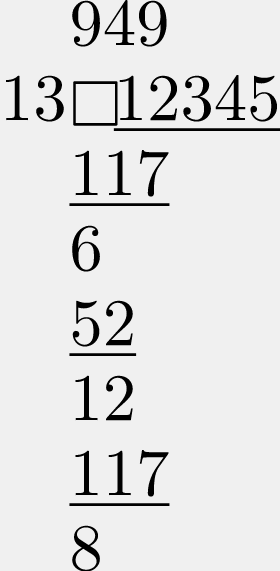
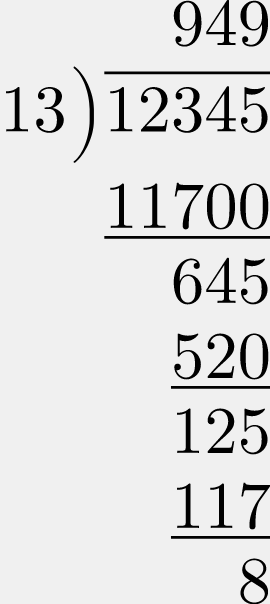
fix: correct long division rendering

diff --git a/CSharpMath.Core.Tests/Atom/LongDivisionTests.cs b/CSharpMath.Core.Tests/Atom/LongDivisionTests.cs
@@ -10,6 +10,8 @@ namespace CSharpMath.Core.AtomTests {
     static string CellText(MathList cell) => cell.Count == 0 ? "" : cell[0] switch {
       Number number => number.Nucleus,
       Underline underline => CellText(underline.InnerList),
+      Overline overline => CellText(overline.InnerList),
+      Inner inner => CellText(inner.InnerList),
       _ => cell.DebugString
     };
     static LongDivision Parse(string source) {
@@ -101,10 +103,20 @@ namespace CSharpMath.Core.AtomTests {
       var layout = (Table)typeof(LongDivision).GetMethod("CreateLayout", BindingFlags.Instance | BindingFlags.NonPublic)!.Invoke(atom, null)!;
       var dividend = layout.Cells[1][1];
       var inner = Assert.IsType<Inner>(dividend[0]);
-      Assert.Equal("⟌", inner.LeftBoundary.Nucleus);
-      Assert.IsType<Underline>(inner.InnerList[0]);
+      Assert.Equal(")", inner.LeftBoundary.Nucleus);
+      Assert.Equal(Boundary.Empty, inner.RightBoundary);
+      Assert.IsType<Overline>(inner.InnerList[0]);
       Assert.Equal("949", CellText(layout.Cells[0][1]));
+      Assert.Equal(ColumnAlignment.Right, layout.GetAlignment(1));
       Assert.Equal(1, layout.Cells.Count(row => row.Any(cell => CellText(cell) == atom.Remainder)));
+    }
+
+    [Fact]
+    public void LayoutPreservesProductPlaceValuesAndRunningTotals() {
+      var atom = new LongDivision("12345", "13");
+      var layout = (Table)typeof(LongDivision).GetMethod("CreateLayout", BindingFlags.Instance | BindingFlags.NonPublic)!.Invoke(atom, null)!;
+      Assert.Equal(new[] { "949", "12345", "11700", "645", "520", "125", "117", "8" },
+        layout.Cells.Select(row => CellText(row[1])));
     }
 
     [Fact]
@@ -113,7 +125,21 @@ namespace CSharpMath.Core.AtomTests {
       Assert.Contains(atom.Steps, step => step.QuotientDigit == 0);
       var layout = (Table)typeof(LongDivision).GetMethod("CreateLayout", BindingFlags.Instance | BindingFlags.NonPublic)!.Invoke(atom, null)!;
       Assert.Equal("201", CellText(layout.Cells[0][1]));
+      Assert.Equal(new[] { "201", "1005", "1000", "5", "5", "0" },
+        layout.Cells.Select(row => CellText(row[1])));
       Assert.Equal(1, layout.Cells.Skip(2).Count(row => row.Any(cell => CellText(cell) == "0")));
+    }
+
+    [Theory]
+    [InlineData("81", "3", new[] { "27", "81", "60", "21", "21", "0" })]
+    [InlineData("3", "5", new[] { "0", "3", "3" })]
+    [InlineData("0", "7", new[] { "0", "0", "0" })]
+    [InlineData("86491", "94", new[] { "920", "86491", "84600", "1891", "1880", "11" })]
+    public void LayoutShowsExactlyOneFinalRemainder(string numerator, string denominator, string[] expected) {
+      var atom = new LongDivision(numerator, denominator);
+      var layout = (Table)typeof(LongDivision).GetMethod("CreateLayout", BindingFlags.Instance | BindingFlags.NonPublic)!.Invoke(atom, null)!;
+      Assert.Equal(expected, layout.Cells.Select(row => CellText(row[1])));
+      Assert.Equal(atom.Remainder, CellText(layout.Cells.Last()[1]));
     }
   }
 }

diff --git a/CSharpMath/Atom/Atoms/LongDivision.cs b/CSharpMath/Atom/Atoms/LongDivision.cs
@@ -44,10 +44,31 @@ namespace CSharpMath.Atom.Atoms {
       return result.AsReadOnly();
     }
     internal Table CreateLayout() {
-      var table = new Table { InterColumnSpacing = 1, InterRowAdditionalSpacing = 1 }; table.SetCell(Digits(QuotientText), 0, 1); table.SetCell(Digits(Denominator), 1, 0); table.SetCell(new MathList(new Inner(new Boundary("⟌"), new MathList(new Underline(Digits(Numerator))), Boundary.Empty)), 1, 1); table.SetAlignment(ColumnAlignment.Right, 0); table.SetAlignment(ColumnAlignment.Left, 1);
-      var d = BigInteger.Parse(Denominator, CultureInfo.InvariantCulture); var running = BigInteger.Zero; var row = 2;
-      for (int i = 0; i < Numerator.Length; i++) { running = running * 10 + (Numerator[i] - '0'); if (running < d) continue; var product = (running / d) * d; table.SetCell(new MathList(new Underline(Digits(product.ToString(CultureInfo.InvariantCulture)))), row++, 1); running -= product; if (i < Numerator.Length - 1) table.SetCell(Digits(running.ToString(CultureInfo.InvariantCulture)), row++, 1); }
-      if (row == 2 || Remainder != "0") table.SetCell(Digits(Remainder), row, 1); return table;
+      var table = new Table { InterColumnSpacing = 1, InterRowAdditionalSpacing = 1 };
+      table.SetCell(Digits(QuotientText), 0, 1);
+      table.SetCell(Digits(Denominator), 1, 0);
+      table.SetCell(new MathList(new Inner(
+        new Boundary(")"),
+        new MathList(new Overline(Digits(Numerator))),
+        Boundary.Empty)), 1, 1);
+      table.SetAlignment(ColumnAlignment.Right, 0);
+      table.SetAlignment(ColumnAlignment.Right, 1);
+
+      var row = 2;
+      foreach (var step in Steps.Where(step => step.QuotientDigit > 0)) {
+        var trailingZeroes = new string('0', Numerator.Length - step.DecimalColumn - 1);
+        var product = step.Product + trailingZeroes;
+        table.SetCell(new MathList(new Underline(Digits(product))), row++, 1);
+
+        // Bring down every remaining dividend digit so place value is retained.
+        var runningText = step.Remainder + Numerator.Substring(step.DecimalColumn + 1);
+        var running = BigInteger.Parse(runningText, CultureInfo.InvariantCulture)
+          .ToString(CultureInfo.InvariantCulture);
+        table.SetCell(Digits(running), row++, 1);
+      }
+      if (!Steps.Any(step => step.QuotientDigit > 0))
+        table.SetCell(Digits(Remainder), row, 1);
+      return table;
     }
     public IEnumerable<MathList> InnerLists => CreateLayout().Cells.SelectMany(r => r);
     public override bool ScriptsAllowed => false;

diff --git a/CSharpMath.Rendering.Tests/TestRenderingMathData.cs b/CSharpMath.Rendering.Tests/TestRenderingMathData.cs
@@ -36,6 +36,7 @@ namespace CSharpMath.Rendering.Tests {
     public const string LongDivisionInternalZero = @"\longdiv{1005}{5}";
     public const string LongDivisionExact = @"\longdiv{81}{3}";
     public const string LongDivisionShort = @"\longdiv{3}{5}";
+    public const string LongDivisionTrailingZero = @"\longdiv{86491}{94}";
     public const string Integral = @"\int_{0}^{\infty}e^x \,dx=\oint_0^{\Delta}5\Gamma";
     public const string IntegralColorBoxCorrect = @"\colorbox{red}{\int^\colorbox{yellow}\infty_\colorbox{purple}{-\infty}}\colorbox{green}x\ \colorbox{blue}{dx}";
     public const string IntegralColorBoxWrong = @"\colorbox{red}\int^\colorbox{yellow}\infty_\colorbox{purple}{-\infty}\colorbox{green}x\ \colorbox{blue}{dx}";
